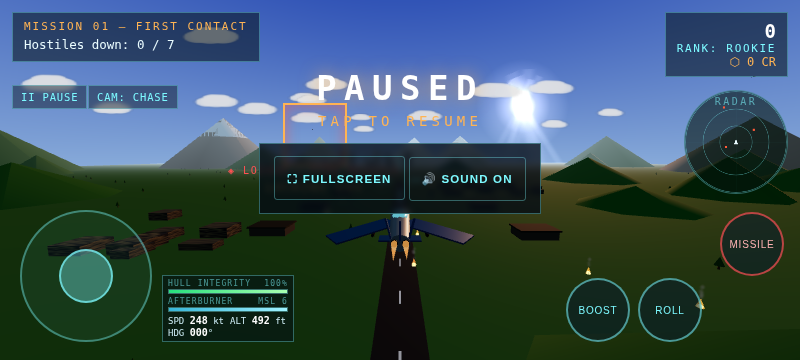
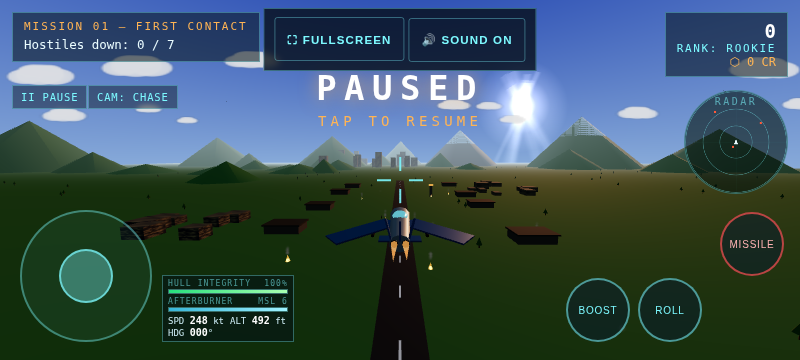
Move the pause controls out of the centre: Fullscreen + Sound dock at the top centre (below the title in portrait), clear of the jet and HUD at 360px and 250px viewport heights; changelog updated

diff --git a/index.html b/index.html
@@ -167,7 +167,9 @@
   #lockprog{position:absolute;left:50%;top:50%;transform:translate(-50%,-50%);font-size:11px;color:var(--amber);letter-spacing:.2em;text-shadow:0 0 8px #000}
   #banner{position:absolute;left:50%;top:19%;transform:translateX(-50%);text-align:center;width:100%}
   .qbtn.qactive{border-color:var(--amber);color:var(--amber)}
-  #banner-controls{display:inline-block;margin-top:14px;padding:10px 12px;background:rgba(4,12,20,.78);border:1px solid var(--line);backdrop-filter:blur(3px)}
+  #banner-controls{position:fixed;left:50%;top:calc(8px + env(safe-area-inset-top));transform:translateX(-50%);z-index:30;padding:6px 8px;background:rgba(4,12,20,.78);border:1px solid var(--line);backdrop-filter:blur(3px);text-align:center;white-space:nowrap}
+  @media(max-height:300px){ #banner{top:30%} }
+  @media(max-width:560px){ #banner-controls{top:calc(19% + 100px)} }
   #banner-controls .btn{font-size:11.5px;padding:7px 12px;letter-spacing:.1em;margin:2px}
   body.touch #banner-controls .btn{min-height:44px}
   #banner-main{font-size:clamp(20px,5vw,34px);font-weight:700;letter-spacing:.22em;color:#fff;text-shadow:0 0 18px rgba(255,180,84,.7)}
@@ -274,7 +276,8 @@
   <div id="lockbox"><div class="lk">◈ LOCKED — FIRE MISSILE</div></div>
   <div id="lockprog"></div>
   <div id="hitmarker">✕</div>
-  <div id="banner" class="hidden"><div id="banner-main"></div><div id="banner-sub"></div><div id="banner-controls" class="hidden"><button id="btn-end-pause" class="btn ghost small hidden">✕ End Sortie</button><button id="btn-fs-pause" class="btn ghost small">⛶ Fullscreen</button><button id="btn-mute" class="btn ghost small mutebtn">🔊 SOUND ON</button></div></div>
+  <div id="banner" class="hidden"><div id="banner-main"></div><div id="banner-sub"></div></div>
+  <div id="banner-controls" class="hidden"><button id="btn-end-pause" class="btn ghost small hidden">✕ End Sortie</button><button id="btn-fs-pause" class="btn ghost small">⛶ Fullscreen</button><button id="btn-mute" class="btn ghost small mutebtn">🔊 SOUND ON</button></div>
   <div id="warning" class="hidden">⚠ WARNING ⚠</div>
 </div>
 
@@ -2530,6 +2533,7 @@ function togglePause() {
   paused = !paused;
   showBanner(paused ? 'PAUSED' : 'RESUMED', paused ? (IS_TOUCH ? 'TAP TO RESUME' : 'PRESS P TO RESUME') : '', paused ? 999999 : 800);
   el('banner-controls').classList.toggle('hidden', !paused);
+  el('banner-controls').style.pointerEvents = paused ? 'auto' : 'none';
   el('banner').style.pointerEvents = paused ? 'auto' : 'none';
   if (!paused) el('banner').classList.add('hidden');
 }

diff --git a/CHANGELOG.md b/CHANGELOG.md
@@ -22,7 +22,7 @@ _Nothing yet — the next update lands here._
 - Fatal terrain collision (Rama's request): flying into the ground, a building, a hill or a mountain is now a crash — instant death with a CRASHED banner, no more scrape damage or push-out bounce. The takeoff roll is still guided gently until the jet has genuinely been airborne. Mission 04's entry lane is kept clear of skyscrapers so the spawn run is fair.
 - A dedicated SETTINGS screen in the hangar (🎛 Settings next to Armory & Service Record) now houses the graphics presets, the sound toggle and fullscreen; the pause banner's controls were compacted into a single glass panel so they no longer sprawl across the HUD, and they no longer leak into in-flight banner messages (score popups, wave calls).
 - Sky and clouds restyled after Rama's Summit Air reference screenshot: a gradient sky dome (vivid azure at the zenith melting into a pale horizon, per-theatre colours driven by each sky's palette) replaces the flat sky colour, and the clouds are now flat, bright-white stylised puffs with near-solid cores instead of soft blue-tinted blobs.
-- Graphics settings moved out of gameplay (Rama's correction): the pause banner no longer carries the LOW/MED/HIGH buttons — graphics quality is set only in the hangar SETTINGS screen. The pause panel keeps just Fullscreen and Sound.
+- Graphics settings moved out of gameplay (Rama's correction): the pause banner no longer carries the LOW/MED/HIGH buttons — graphics quality is set only in the hangar SETTINGS screen. The pause panel keeps just Fullscreen and Sound, docked at the top centre of the screen (below the title in portrait) so it never covers the jet or the centre of the view.
 
 ### Changed
 - Lobby: **Change Aircraft** is now a proper UI box — dark gradient panel, bright cyan border, amber corner brackets and icon — clearly visible against the hangar.
